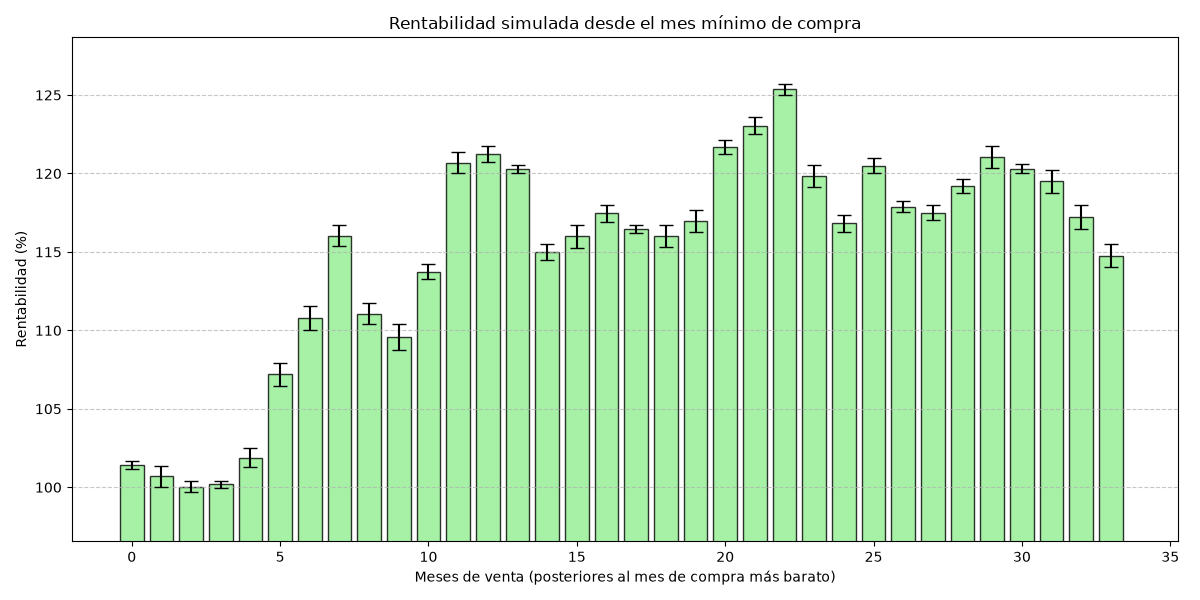
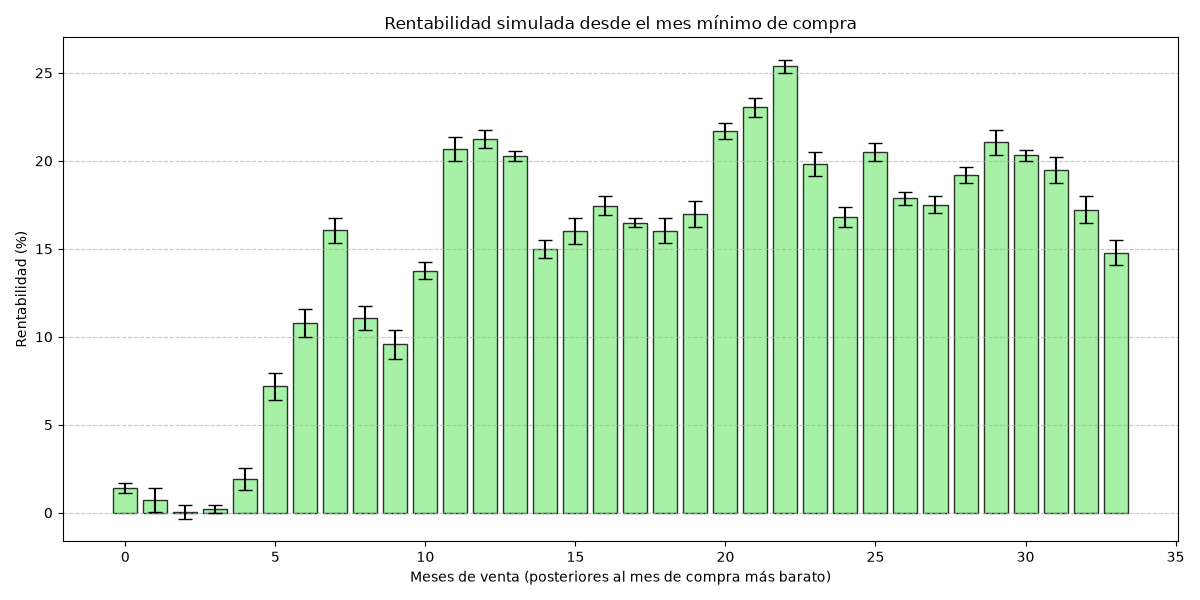
OTRA VEZ AAAAAAAHHHHHHH!!

diff --git a/src/anualidad.py b/src/anualidad.py
@@ -34,15 +34,29 @@ def cancelacion():
         error_propagado= f"{error_propagados}",
         ruta_archivo= "./data/evaluacion_errores.csv"
     )
+    errores_propagados = []
+    delta = []
+    lista_rev = num_red_real_err_abs_rel[3][:-1]
+    lista = num_red_real_err_abs_rel[3][1:]
+    for i in range(len(lista_rev)):
+        punto1 = lista_rev[i]
+        punto2 = lista[i]
+        deltas = er.variacion_entre_meses(np.round(punto1), np.round(punto2))
+        delta.append(deltas)
+        error_abs_p1 = er.error_absoluto(punto1, np.round(punto1))
+        error_abs_p2 = er.error_absoluto(punto2 , np.round(punto2))
+        errors_propagados = np.round((np.round(error_abs_p1, 3) + np.round(error_abs_p2, 3)), 3)
+        errores_propagados.append(errors_propagados)
+
     # Zona de Grafico de Barras
-    meses_x = ["ΔP"]
-    valores_y = [np.float64(delta_p)]
-    error = [error_propagados]
+    meses_x = range(len(num_red_real_err_abs_rel[3]) - 1)
+    valores_y = delta
+    error = errores_propagados
     fig, ax = plt.subplots(figsize=(12, 6))
     ax.bar(meses_x, valores_y, yerr = error,color='skyblue', edgecolor='black')
 
     ax.set_xlabel('Variación del ΔP')
-    ax.set_ylabel('Error')
+    ax.set_ylabel('')
     ax.set_title('Variación mes a mes ΔP')
     ax.grid(axis='y', linestyle='--', alpha=0.7)
 
@@ -88,6 +102,6 @@ def variacion_anual():
 
 if __name__ == "__main__":
 #Zona de uso de las funciones, solo desmarcar la que se requiera usar.
-    #cancelacion()
+    cancelacion()
     #variacion_anual
     pass

diff --git a/src/errores.py b/src/errores.py
@@ -280,7 +280,7 @@ def mejor_compra_venta(monto_inicial = 1000000):
     for venta in range(ind_mejor_compra, len(nums_reales)-1):
         evaluado = evaluacion_compra_venta(monto_inicial, ind_mejor_compra, venta+1, propio=1)
         
-        rentabilidad_mes = evaluado[2]
+        rentabilidad_mes = evaluado[2] - 100
         error_absoluto_pesos = evaluado[3]
         
         error_en_porcentaje = (error_absoluto_pesos / monto_inicial) * 100
@@ -314,7 +314,7 @@ if __name__ == "__main__":
     mejor_compra_venta()
 
 ###########Usar grafico serie mensual#################
-    #datos_csv = cd.obtener_datos()
-    #num_red_real_err_abs_rel = sacar_numero_redondeado_error_absoluto_relativo(datos_csv)
-    #precios = num_red_real_err_abs_rel[3]
-    #grafico_serie_mensual_dolar(precios)
+    datos_csv = cd.obtener_datos()
+    num_red_real_err_abs_rel = sacar_numero_redondeado_error_absoluto_relativo(datos_csv)
+    precios = num_red_real_err_abs_rel[3]
+    grafico_serie_mensual_dolar(precios)
